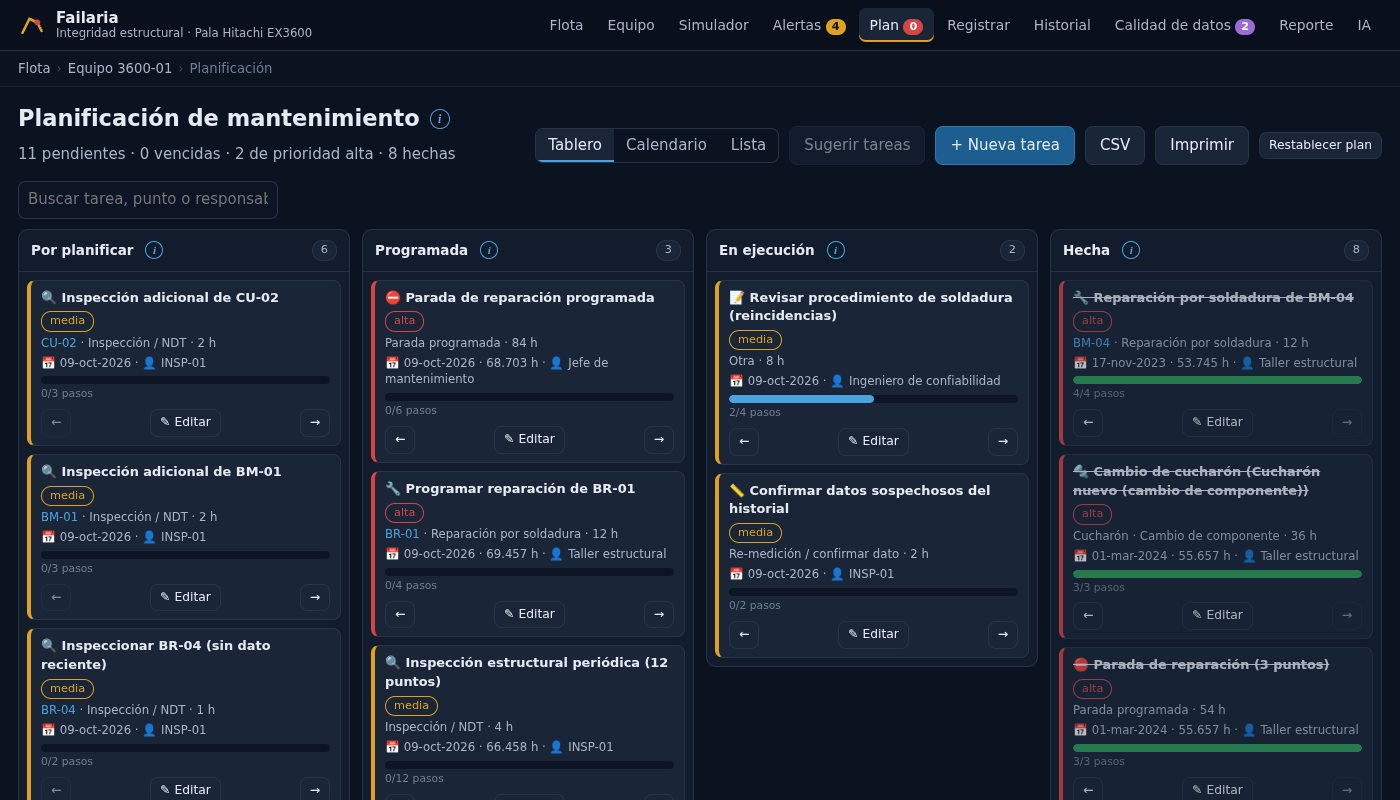
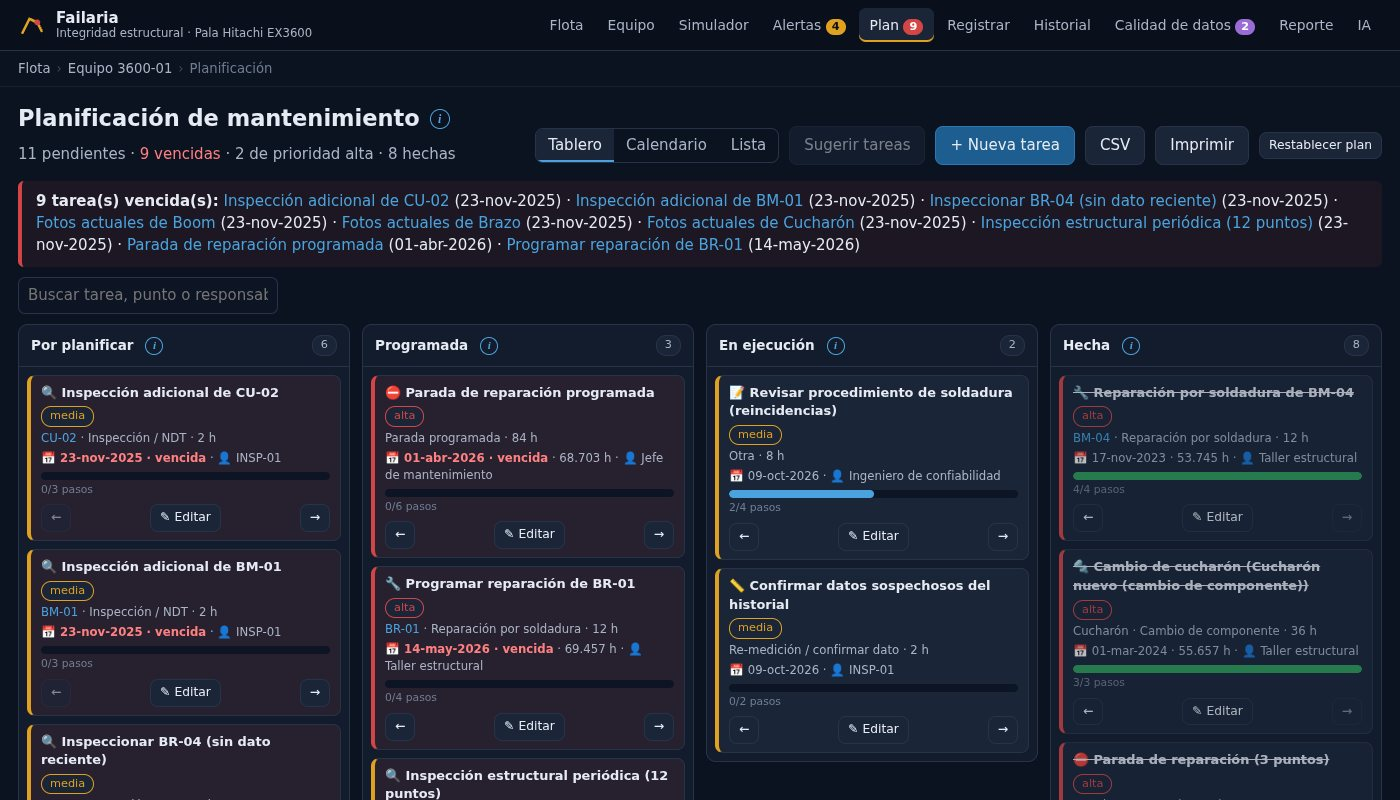
Plan con fechas por horas, diagnóstico IA incluido, etiquetas del Boom, badge del Plan y tabla del simulador
- Plan: las fechas sugeridas salen de las horas proyectadas (igual que la próxima parada de Equipo) y ya no se adelantan a hoy; si pasaron, la tarea queda vencida (parada 01-abr-2026 · 68.703 h)
- Diagnóstico IA incluido (src/diagnostico_ia.js): se muestra en IA y Reporte mientras no haya uno guardado; prueba que vigila que sus cifras coincidan con el análisis
- Esquema del Boom: etiqueta de BM-03 a la izquierda para no tapar la de BM-02 (posición de etiqueta configurable por punto)
- [hidden] siempre oculta: el badge del Plan ya no aparece con 0
- Simulador: gravedad y modo en una columna y encabezados en dos líneas; la columna Falla cabe desde 1280 px y el diseño se apila bajo 1100 px
- Empaquetador: Failaria.html se genera en la raíz del repositorio; el ZIP sigue en dist/
- Docs (README, ENTREGA, MANTENIMIENTO_Y_FALLA, USO_IA, CLAUDE.md) y capturas actualizadas; 95 verificaciones

Changed region(s): [[0.0, 0.1875, 0.9829, 1.0], [0.6143, 0.5312, 0.645, 0.5625], [0.1229, 0.9688, 0.1536, 1.0]]

diff --git a/src/diagnostico_ia.js b/src/diagnostico_ia.js
@@ -1,0 +1,65 @@
+// Diagnóstico IA incluido en la plataforma: respuesta de Claude al prompt que arma la vista IA
+// (src/ia.js, construirPrompt) con el Excel original (datos hasta el 11-oct-2025).
+// Se muestra en las vistas IA y Reporte mientras el usuario no guarde ni borre un diagnóstico, para que
+// la versión entregable no llegue sin diagnóstico (lo guardado vive en el navegador de cada usuario).
+// tests/verify.cjs comprueba que sus cifras clave sigan coincidiendo con el análisis; si cambia el Excel, regenerarlo.
+export const DIAGNOSTICO_DEFECTO = {
+  defecto: true,
+  origen: 'Diagnóstico incluido en la plataforma (Claude, prompt de la vista IA)',
+  modelo: 'claude-opus-5-5',
+  fecha: '2026-10-09T12:00:00.000Z',
+  datosHasta: '2025-10-11',
+  texto: `## 1. Diagnóstico ejecutivo
+El equipo 3600-01 está en **Alerta** por un solo punto: **BR-01**, en las orejas intermedias del cilindro del brazo, mide 410 mm, sobre Caution (300 mm), y crece ≈ 48 mm/1000 h.
+Con crecimiento lineal llegaría a Danger (600 mm) en ≈ 3.754 h, hacia el 14-may-2026. La parada de reparación debe hacerse antes de ≈ 3.000 h (01-abr-2026), un intervalo de inspección antes de ese límite.
+Los otros 11 puntos están en Normal, pero el boom tiene tres grietas creciendo en paralelo y el cucharón muestra las tasas más altas del equipo.
+El historial confirma el riesgo de dejar avanzar una grieta: CU-02 operó 2.219 h en Crítico, hasta 1.040 mm, antes de repararse el 19-jul-2025.
+
+## 2. Prioridades de mantenimiento
+| Punto | Acción | Plazo | Justificación |
+|---|---|---|---|
+| BR-01 | Reparar por soldadura en la parada; inspeccionar con mayor frecuencia hasta entonces | Parada antes de 68.703 h (≈ 01-abr-2026); Danger a 69.457 h (≈ 14-may-2026) | Alerta desde el 22-abr-2025 (2.904 h sobre Caution); 410 mm, 48 mm/1000 h, R² 0,99 |
+| BM-01 | Inspección adicional e incluir en la parada | Caution a ≈ 1.224 h (≈ 20-dic-2025) | 200 mm, 41 mm/1000 h; la grieta más avanzada del boom |
+| CU-02 | Inspeccionar en el próximo intervalo, revisar la reparación e incluir en la parada | Próxima inspección a ≈ 754 h (≈ 23-nov-2025); Caution a ≈ 3.740 h (≈ 13-may-2026) | Reapareció con 70 mm tras la reparación de jul-2025; la tasa de 88 mm/1000 h sale de solo dos mediciones del ciclo actual (0 y 70 mm) |
+| BM-03 · CU-01 · BM-02 | Inspeccionar con END en la parada y reparar si superan Caution | Caution a ≈ 2.422 h (27-feb-2026), ≈ 2.711 h (15-mar-2026) y ≈ 2.814 h (21-mar-2026) | Llegan a Caution antes de la parada; las tres son reincidencias tras reparación |
+| BR-04 | Inspeccionar en la próxima oportunidad | Próxima inspección | No inspeccionado el 11-oct-2025; último dato 0 mm (26-ago-2025) |
+| CU-03 · CU-04 · BR-03 · BM-04 · BR-02 | Seguimiento en la frecuencia normal | Cada ≈ 754 h | Normal; Caution a más de 5.000 h o sin grieta |
+
+## 3. Patrones y causas probables
+**Boom (pluma).** BM-01, BM-02 y BM-03 aparecieron casi a la vez (50–60 mm el 07-mar-2025) y crecen a ritmos parecidos, de 32 a 41 mm/1000 h con R² ≥ 0,98. Un inicio simultáneo en tres zonas apunta a un cambio común de carga u operación a comienzos de 2025, más que a defectos locales. BM-02 y BM-03 reaparecieron ≈ 6.400 h después de la reparación del 01-mar-2024, y BM-04 ya se reparó dos veces.
+- Verificar: cambio de material o frente de carguío, ciclos más severos, técnica de operación y procedimiento de las reparaciones de 2024.
+
+**Brazo (stick).** BR-01 concentra la grieta más larga y crece de forma sostenida desde jun-2024, de 70 a 420 mm. BR-03 reapareció en la soldadura de la oreja interna tras su reparación. Ambos patrones son coherentes con fatiga por las cargas del cilindro transmitidas a las orejas.
+- Verificar: holguras de pasadores y bujes del cilindro, alineación de las orejas, calidad de la soldadura de oreja y presión de trabajo del cilindro.
+
+**Cucharón.** Es la zona más activa: CU-02 y CU-01 tienen las tasas más altas del equipo, 88 y 63 mm/1000 h, y ambas son reincidencias. CU-01 volvió a 230 mm en ≈ 3.600 h después de repararse.
+- Verificar: impacto y abrasión en excavación dura, procedimiento y material de aporte de las reparaciones, y si la grieta se eliminó por completo antes de soldar (END de liberación).
+
+**En todo el equipo.** Hay seis reincidencias en nueve reparaciones. Conviene revisar el procedimiento de reparación por soldadura antes de la próxima parada: WPS, precalentamiento, preparación de junta y END posterior.
+
+## 4. Frecuencia de inspección
+- El intervalo actual de ≈ 754 h (≈ 43 días) es suficiente para los puntos en Normal: con las tasas medidas ninguno avanza más de ≈ 66 mm entre dos inspecciones.
+- **BR-01:** reducir el intervalo a la mitad, ≈ 377 h (≈ 22 días), hasta repararlo. Crece ≈ 36 mm por intervalo actual y le quedan 190 mm hasta Danger.
+- **CU-02 y CU-01:** no superar 754 h y medir con END en cada inspección. Confirmar la tasa de CU-02 con al menos dos mediciones más antes de cambiar el intervalo.
+- **BM-01:** inspección adicional antes de llegar a Caution, hacia el 20-dic-2025.
+- Supuesto: las proyecciones son lineales. En fatiga la tasa suele aumentar con la longitud de la grieta, así que los plazos de BR-01 y de las grietas más largas pueden ser optimistas.
+
+## 5. Calidad de los datos
+- **CU-01, 22-abr-2025: 1.010 mm** entre 0 mm (07-mar-2025) y 100 mm (08-jun-2025). Es probable un dígito extra (101 mm). Está pendiente de decisión; si fuera real, el punto habría estado en Crítico.
+- **CU-02, 22-abr-2025: 0 mm** sin registro de reparación, en pleno periodo en Crítico. Lo más probable es que no se inspeccionara y se anotara 0 en vez de dejar la celda vacía.
+- **BR-01 y CU-03:** bajaron 10 y 20 mm sin reparación. Se tratan como variación de medición, pero el valor de BR-01 (410 mm) puede subestimar la grieta: conviene re-medir.
+- **BR-04:** sin dato en la última inspección. La cobertura total es 97,1 % y los vacíos se mantienen como no inspeccionados, nunca como 0.
+- **Registro fotográfico:** las tres zonas tienen fotos desactualizadas. Sin fotos recientes no se puede verificar la ubicación ni la longitud de las grietas activas. Fotografiar con regla cada punto con grieta en cada inspección.
+- **Vigencia:** el historial termina el 11-oct-2025 y las fechas se estiman con 17,4 h/día. Si el equipo siguió operando sin nuevas inspecciones, la parada recomendada (01-abr-2026) y el límite de BR-01 (14-may-2026) ya pasaron. Hay que confirmar el estado actual antes de usar este plan.
+
+## 6. Preguntas para el equipo de terreno
+1. ¿Se reparó BR-01 o se hizo la parada después del 11-oct-2025? ¿Cuánto mide hoy?
+2. CU-01 el 22-abr-2025: ¿el valor real fue 101 mm o 1.010 mm? CU-02 ese mismo día: ¿se inspeccionó?
+3. ¿Por qué no se inspeccionó BR-04 el 11-oct-2025: acceso, limpieza o tiempo?
+4. ¿Qué cambió en la operación a comienzos de 2025, cuando aparecieron a la vez las grietas del boom: material, frente, tonelaje u operadores?
+5. ¿Qué procedimiento de soldadura y qué END de liberación se usaron en las reparaciones de BM-02, BM-03, BR-03, CU-01 y CU-02?
+6. ¿Por qué CU-02 siguió operando en Crítico entre el 07-mar-2025 y el 19-jul-2025? ¿Hubo restricción de carga o monitoreo especial?
+7. La medición de BR-01 bajó de 420 a 410 mm: ¿se usó el mismo método (PT o MT) y la misma referencia?
+
+Este diagnóstico usa solo los datos calculados por la plataforma. Apoya el análisis; la decisión final corresponde al ingeniero responsable.`,
+};

diff --git a/src/estilos.css b/src/estilos.css
@@ -37,6 +37,7 @@ small, .tenue { color: var(--tenue); }
 .nav a { color: var(--texto2); padding: 7px 11px; border-radius: 7px; font-size: .92rem; white-space: nowrap; }
 .nav a:hover { background: var(--panel2); text-decoration: none; color: var(--texto); }
 .nav a.activo { background: var(--panel2); color: var(--texto); box-shadow: inset 0 -2px 0 var(--alerta); }
+[hidden] { display: none !important; }
 .badge { display: inline-block; min-width: 20px; padding: 0 6px; border-radius: 10px; background: var(--critico); color: #fff; font-size: .75rem; text-align: center; font-weight: 700; }
 .badge.violeta { background: var(--sospechoso); }
 .menu-btn { display: none; margin-left: auto; background: none; border: 1px solid var(--borde); color: var(--texto); font-size: 1.2rem; border-radius: 6px; padding: 4px 10px; }
@@ -143,6 +144,9 @@ input[type=range] { width: 100%; accent-color: var(--alerta); }
 .hot:hover, .hot:focus { transform: translate(-50%, -50%) scale(1.18); text-decoration: none; z-index: 2; }
 .hot.pulso { animation: pulso 1.4s infinite; }
 .hot .etq { position: absolute; top: 100%; margin-top: 3px; background: rgba(12,19,32,.9); padding: 1px 6px; border-radius: 4px; font-size: .72rem; white-space: nowrap; }
+.hot .etq-izq { top: 50%; right: 100%; margin: 0 5px 0 0; transform: translateY(-50%); }
+.hot .etq-der { top: 50%; left: 100%; margin: 0 0 0 5px; transform: translateY(-50%); }
+.hot .etq-arriba { top: auto; bottom: 100%; margin: 0 0 3px; }
 .hot.sosp { outline: 3px dashed var(--sospechoso); outline-offset: 3px; }
 @keyframes pulso { 0%, 100% { box-shadow: 0 0 0 2px rgba(0,0,0,.35), 0 0 0 0 rgba(214,69,69,.7); } 50% { box-shadow: 0 0 0 2px rgba(0,0,0,.35), 0 0 0 12px rgba(214,69,69,0); } }
 
@@ -248,7 +252,10 @@ h1 button.info, h2 button.info { width: 20px; height: 20px; font-size: 12px; }
 .fea-leyenda .barra-color { flex: 1; height: 10px; border-radius: 5px; background: linear-gradient(90deg, #1b2f8a, #1ea7d8, #2ec46a, #f2d23a, #ff7a1a, #d61f1f); }
 .sev-barra { position: relative; height: 8px; background: #0d1524; border-radius: 4px; overflow: hidden; min-width: 54px; }
 .sev-barra i { position: absolute; left: 0; top: 0; bottom: 0; border-radius: 4px; }
-.sim-tabla td, .sim-tabla th { padding: 5px 5px; font-size: .82rem; white-space: nowrap; }
+.sim-tabla td, .sim-tabla th { padding: 5px 4px; font-size: .82rem; white-space: nowrap; }
+.sim-tabla th small { font-weight: 500; text-transform: none; letter-spacing: 0; }
+.sev-fila { display: flex; align-items: center; gap: 5px; margin-bottom: 3px; }
+.sev-fila .sev-barra { flex: 1; }
 .sim-tabla tr.fallado td { background: rgba(214,69,69,.12); }
 .sim-tabla tr.sel td { background: rgba(74,163,223,.12); }
 .sim-eventos { max-height: 170px; overflow: auto; font-size: .82rem; }
@@ -259,7 +266,7 @@ h1 button.info, h2 button.info { width: 20px; height: 20px; font-size: 12px; }
 .modo-propagacion { background: rgba(224,160,32,.25); color: #f6cd6a; } .modo-acelerada { background: rgba(255,122,26,.3); color: #ffb380; }
 .modo-fractura { background: var(--critico); color: #fff; animation: parpadeo 1s infinite; }
 @keyframes parpadeo { 50% { opacity: .55; } }
-@media (max-width: 1000px) { .sim-layout { grid-template-columns: minmax(0, 1fr); } .sim-3d { height: 420px; } }
+@media (max-width: 1100px) { .sim-layout { grid-template-columns: minmax(0, 1fr); } .sim-3d { height: 420px; } }
 
 /* Planificación: tablero, calendario, diálogo */
 .tablero { display: grid; grid-template-columns: repeat(4, minmax(0, 1fr)); gap: 12px; align-items: start; }

diff --git a/src/vistas/simulador.js b/src/vistas/simulador.js
@@ -64,7 +64,7 @@ export function render(root, app, [piezaRuta]) {
       <div class="panel" id="pPieza"></div>
       <div class="espacio"></div>
       <div class="panel" style="padding:10px">
-        <div class="tabla-wrap"><table class="sim-tabla"><thead><tr><th>Punto</th><th>Gravedad ${info('Gravedad = L / a<sub>c</sub>. A 100 % la grieta alcanza la longitud crítica y la pieza falla.')}</th><th>Modo ${info(Object.values(MODOS).map((m) => `<p><b>${m.titulo}:</b> ${m.desc}</p>`).join(''))}</th><th class="n">Danger (h)</th><th class="n">Falla (h)</th></tr></thead><tbody id="tb"></tbody></table></div>
+        <div class="tabla-wrap"><table class="sim-tabla"><thead><tr><th>Punto</th><th>Gravedad<br><small>y modo</small> ${info('<p>Gravedad = L / a<sub>c</sub>. A 100 % la grieta alcanza la longitud crítica y la pieza falla.</p>' + Object.values(MODOS).map((m) => `<p><b>${m.titulo}:</b> ${m.desc}</p>`).join(''))}</th><th class="n">Danger<br><small>h</small></th><th class="n">Falla<br><small>h</small></th></tr></thead><tbody id="tb"></tbody></table></div>
       </div>
       <div class="espacio"></div>
       <div class="rejilla c2">
@@ -144,8 +144,7 @@ export function render(root, app, [piezaRuta]) {
     $('reloj').textContent = `+${fNum(Math.round(sim.horas))} h · ${fFecha(sim.fecha())}`;
     $('tb').innerHTML = lista.map((x) => `<tr class="clic ${x.fallado ? 'fallado' : ''} ${seleccion === x.codigo ? 'sel' : ''}" data-c="${x.codigo}">
       <td><b>${x.codigo}</b><br><small class="num">${fNum(x.L)} mm</small></td>
-      <td><div class="sev-barra" title="${fNum(x.severidad * 100)} %"><i style="width:${Math.round(x.severidad * 100)}%;background:${x.severidad > 0.62 ? '#d61f1f' : x.severidad > 0.37 ? '#f2d23a' : '#2ec46a'}"></i></div><small>${fNum(x.severidad * 100)} %</small></td>
-      <td><span class="modo-chip modo-${x.modo}">${MODOS[x.modo].corto}</span></td>
+      <td><div class="sev-fila"><div class="sev-barra" title="${fNum(x.severidad * 100)} %"><i style="width:${Math.round(x.severidad * 100)}%;background:${x.severidad > 0.62 ? '#d61f1f' : x.severidad > 0.37 ? '#f2d23a' : '#2ec46a'}"></i></div><small>${fNum(x.severidad * 100)} %</small></div><span class="modo-chip modo-${x.modo}">${MODOS[x.modo].corto}</span></td>
       <td class="n">${x.fallado ? '—' : x.horasDanger === 0 ? 'superado' : fNum(x.horasDanger)}</td>
       <td class="n">${x.fallado ? `<b style="color:#ff8080">+${fNum(Math.round(x.horaFalla))} h</b>` : Number.isFinite(x.horasCritico) ? fNum(x.horasCritico) : '∞'}</td></tr>`).join('');
     $('tb').querySelectorAll('tr').forEach((tr) => tr.addEventListener('click', () => seleccionar(tr.dataset.c)));

diff --git a/src/ui/esquema.js b/src/ui/esquema.js
@@ -13,12 +13,13 @@ export function esquemaHTML(zonaId, A, op = {}) {
   const hots = ps.map((a) => {
     const h = a.punto.hotspot || cfg.hotspots[a.codigo];
     if (!h) return '';
+    const lado = h.etq || cfg.hotspots[a.codigo]?.etq;
     const s = op.sim?.puntos[a.codigo];
     const estado = s ? s.estado : a.estadoActual;
     const L = s ? s.L : a.ultimoValido?.Lef;
     const pulso = estado === 'Crítico' || estado === 'Alerta';
     const tit = `${a.codigo} · ${a.punto.descripcion}\n${s ? 'Proyectado' : 'Último'}: ${fMm(L)} · ${estado}${a.niUltima && !s ? ' (N/I en la última inspección)' : ''}`;
-    return `<a class="hot${pulso ? ' pulso' : ''}${a.pendientes.length ? ' sosp' : ''}" href="#/punto/${a.codigo}" style="left:${h.x * 100}%;top:${h.y * 100}%;background:${COLOR[estado]}" title="${esc(tit)}" aria-label="${esc(tit)}">${a.codigo.slice(3)}${op.etiquetas !== false ? `<span class="etq">${a.codigo} · ${L === null || L === undefined ? 'N/I' : L + ' mm'}</span>` : ''}</a>`;
+    return `<a class="hot${pulso ? ' pulso' : ''}${a.pendientes.length ? ' sosp' : ''}" href="#/punto/${a.codigo}" style="left:${h.x * 100}%;top:${h.y * 100}%;background:${COLOR[estado]}" title="${esc(tit)}" aria-label="${esc(tit)}">${a.codigo.slice(3)}${op.etiquetas !== false ? `<span class="etq${lado ? ' etq-' + lado : ''}">${a.codigo} · ${L === null || L === undefined ? 'N/I' : L + ' mm'}</span>` : ''}</a>`;
   }).join('');
   return `<div class="esquema"><img src="${recurso(cfg.esquemasDir + z.esquema)}" alt="Esquema ${esc(z.nombre)} con la ubicación de los puntos de inspección">${hots}</div>`;
 }

diff --git a/src/vistas/ia.js b/src/vistas/ia.js
@@ -12,7 +12,7 @@ export function render(root, app) {
   let foco = '';
   const prompt = () => construirPrompt(A, foco);
   const guardada = leerPref(CLAVE_PREF, '');
-  const ia = app.store.ia;
+  const ia = app.diagnosticoIA();
 
   root.innerHTML = `
   <div class="cabecera"><div><h1>Análisis con IA ${info('<p>La plataforma arma un <b>prompt estructurado</b> con el estado calculado del equipo (JSON compacto: puntos, tendencias, horas hasta umbral, alertas, parada, calidad de datos, KPIs).</p><p><b>Opción A:</b> copiarlo en Copilot o Claude y pegar la respuesta. <b>Opción B:</b> llamar a la API de Claude con su clave; la solicitud va directo del navegador a api.anthropic.com y la clave solo se guarda en este navegador si lo marca.</p><p>El diagnóstico se guarda y aparece en el Reporte. La IA apoya el análisis; las alertas y el plan son reglas deterministas y la decisión es del ingeniero.</p>')}</h1></div></div>
@@ -62,7 +62,7 @@ export function render(root, app) {
     if (!t) { app.toast('Pegue primero la respuesta del asistente.', true); return; }
     guardarDiag({ texto: t, fecha: new Date().toISOString(), origen: 'Asistente externo (copiar/pegar)', datosHasta: A.ultimaInsp.fecha });
   });
-  $('bBorrar')?.addEventListener('click', () => { if (confirm('¿Borrar el diagnóstico IA guardado?')) guardarDiag(null); });
+  $('bBorrar')?.addEventListener('click', () => { if (confirm(ia?.defecto ? '¿Ocultar el diagnóstico incluido en la plataforma?' : '¿Borrar el diagnóstico IA guardado?')) guardarDiag(false); });
 
   let ctrl = null;
   app.alLimpiar(() => ctrl?.abort());

diff --git a/index.html b/index.html
@@ -45,7 +45,7 @@
       if (!window.__appLista) {
         var c = document.getElementById('cargando');
         if (c) c.innerHTML = location.protocol === 'file:'
-          ? '<h2>Este archivo es el código fuente</h2><p>Los navegadores bloquean los módulos JavaScript al abrir <code>index.html</code> como archivo. Opciones:</p><ol><li><b>Versión entregable:</b> abra <code>Failaria.html</code> (un solo archivo, funciona con doble clic). Se genera con <code>node herramientas/empaquetar.mjs</code> en <code>dist/</code>.</li><li>Doble clic en <b>iniciar.bat</b> (Windows) o ejecute <code>python -m http.server 8000</code> en esta carpeta y abra <a href="http://localhost:8000">http://localhost:8000</a>.</li></ol>'
+          ? '<h2>Este archivo es el código fuente</h2><p>Los navegadores bloquean los módulos JavaScript al abrir <code>index.html</code> como archivo. Opciones:</p><ol><li><b>Versión entregable:</b> abra <code>Failaria.html</code> (un solo archivo, funciona con doble clic). Está en la raíz del repositorio y se genera con <code>node herramientas/empaquetar.mjs</code>.</li><li>Doble clic en <b>iniciar.bat</b> (Windows) o ejecute <code>python -m http.server 8000</code> en esta carpeta y abra <a href="http://localhost:8000">http://localhost:8000</a>.</li></ol>'
           : '<h2>No se pudo iniciar la plataforma</h2><p>Revise la consola del navegador.</p>';
       }
     }, 2500);

diff --git a/src/tareas.js b/src/tareas.js
@@ -60,8 +60,9 @@ export function sugerir(A, existentes = [], hoyReal = null) {
   const claves = new Set(existentes.map((t) => t.clave).filter(Boolean));
   const out = [];
   const hoy = hoyReal && hoyReal > A.ultimaInsp.fecha ? hoyReal : A.ultimaInsp.fecha;
-  // Una fecha calculada en el pasado se trae a hoy: no se puede programar hacia atrás.
-  const add = (t) => { if (!claves.has(t.clave)) { if (t.fecha && t.fecha < hoy) t.fecha = hoy; out.push(nuevaTarea({ origen: 'auto', ...t })); claves.add(t.clave); } };
+  // Las fechas salen de las horas proyectadas con la utilización histórica (misma regla que Equipo y Alertas).
+  // Si una fecha calculada ya pasó, se conserva: la tarea queda vencida en vez de moverse a hoy y perder el plazo.
+  const add = (t) => { if (!claves.has(t.clave)) { out.push(nuevaTarea({ origen: 'auto', ...t })); claves.add(t.clave); } };
   const fechaInsp = A.fechaDeHoras(A.horasActuales + A.intervalo);
 
   if (A.parada.requerida) {

diff --git a/src/app.js b/src/app.js
@@ -19,6 +19,7 @@ import * as vSimulador from './vistas/simulador.js';
 import * as vPlan from './vistas/planificacion.js';
 import { kpisTareas, planInicial } from './tareas.js';
 import { activarInfo } from './ui/ayuda.js';
+import { DIAGNOSTICO_DEFECTO } from './diagnostico_ia.js';
 
 window.__appLista = true;
 
@@ -92,6 +93,13 @@ export const app = {
     this.toast('Se usa nuevamente el Excel original.');
   },
   pedirExcel() { document.getElementById('archivoExcel').click(); },
+  // Diagnóstico IA vigente: el guardado por el usuario; si no hay (null), el incluido en la plataforma
+  // mientras se use el Excel original; false = el usuario lo borró.
+  diagnosticoIA() {
+    const ia = this.store?.ia;
+    if (ia) return ia;
+    return ia === false || this.store?.base ? null : DIAGNOSTICO_DEFECTO;
+  },
 };
 window.app = app; // útil para depurar desde la consola
 

diff --git a/src/almacen.js b/src/almacen.js
@@ -6,7 +6,7 @@ const vacio = () => ({
   agregados: { inspecciones: [], mediciones: [] }, // inspecciones registradas en la plataforma
   fotos: [],                                    // fotos agregadas: { medicionId, codigo, fecha, src(dataURL) }
   decisiones: {},                               // idMedicion → { accion: 'aceptar'|'descartar'|'corregir', valor, fecha }
-  ia: null,                                     // último diagnóstico IA { texto, fecha, modelo }
+  ia: null,                                     // último diagnóstico IA { texto, fecha, modelo }; null = usar el incluido, false = borrado
   tareas: [],                                   // planificación de mantenimiento (tablero/calendario)
   planSembrado: false,                          // true cuando ya se generó el plan inicial desde el historial
 });

diff --git a/src/config.js b/src/config.js
@@ -31,10 +31,11 @@ export const CONFIG = {
 
   // Ubicación de cada punto sobre su esquema (fracción del ancho/alto de la imagen),
   // tomada de la punta de la flecha rotulada en assets/esquemas.
+  // etq (opcional): lado de la etiqueta respecto del punto (izq | der | arriba); por defecto debajo.
   hotspots: {
     'BM-01': { x: 0.420, y: 0.672 },
     'BM-02': { x: 0.700, y: 0.212 },
-    'BM-03': { x: 0.602, y: 0.215 },
+    'BM-03': { x: 0.602, y: 0.215, etq: 'izq' }, // etiqueta a la izquierda: BM-02 está a la misma altura
     'BM-04': { x: 0.235, y: 0.588 },
     'BR-01': { x: 0.375, y: 0.322 },
     'BR-02': { x: 0.221, y: 0.246 },

diff --git a/src/vistas/reporte.js b/src/vistas/reporte.js
@@ -16,7 +16,7 @@ export function render(root, app) {
   const insp = A.ultimaInsp; const eq = A.modelo.equipo;
   app.migas([{ t: 'Flota', h: '#/flota' }, { t: `Equipo ${eq.id}`, h: `#/equipo/${eq.id}` }, { t: 'Reporte' }]);
   const foco = cfg.componenteFoco;
-  const ia = app.store.ia;
+  const ia = app.diagnosticoIA();
   const enAlerta = Object.values(A.puntos).filter((a) => a.estadoActual === 'Alerta' || a.estadoActual === 'Crítico');
 
   root.innerHTML = `

diff --git a/README.md b/README.md
@@ -28,10 +28,10 @@ node herramientas/empaquetar.mjs
 
 | Archivo generado | Contenido |
 |---|---|
-| `dist/Failaria.html` | La plataforma completa en un archivo (≈ 6 MB) |
-| `dist/Failaria_entrega.zip` | `Failaria.html` + `LEEME.txt`, para plataformas o correos que no aceptan `.html` |
+| `Failaria.html` | La plataforma completa en un archivo (≈ 6 MB), en la raíz del repositorio |
+| `dist/Failaria_entrega.zip` | `Failaria.html` + `LEEME.txt`, para plataformas o correos que no aceptan `.html`; no se versiona |
 
-Requiere Node 18 o superior. La primera vez necesita internet, porque `npx` descarga esbuild para agrupar el código. La plataforma en sí no usa npm. Detalle, verificación y opciones de publicación en [docs/ENTREGA.md](docs/ENTREGA.md).
+Requiere Node 18 o superior. La primera vez necesita internet, porque `npx` descarga esbuild para agrupar el código. La plataforma en sí no usa npm. Hay que regenerar el archivo después de cada cambio. Para entregar en Teams o en el aula virtual se adjunta `Failaria.html` o el ZIP, no el link del repositorio. Detalle, verificación y opciones de publicación en [docs/ENTREGA.md](docs/ENTREGA.md).
 
 ## Cómo está pensada la interfaz
 
@@ -52,7 +52,7 @@ Cada vista muestra solo lo necesario para decidir. Las explicaciones (reglas, su
 | **Historial** | Consulta y exportación | Filtros, Excel/CSV/JSON |
 | **Calidad de datos** | ¿Qué datos de campo no son confiables? | Marcados, no borrados; el usuario decide |
 | **Reporte** | PDF en el orden del formato | Resumen, plan, zonas, alertas, diagnóstico IA |
-| **IA** | Diagnóstico asistido | Prompt estructurado o llamada a la API de Claude |
+| **IA** | Diagnóstico asistido | Diagnóstico incluido, prompt estructurado o llamada a la API de Claude |
 
 ## Galería
 
@@ -78,7 +78,7 @@ Cada vista muestra solo lo necesario para decidir. Las explicaciones (reglas, su
 
 ## Planificación de mantenimiento
 
-La vista **Plan** arranca con un plan inicial construido desde el historial (reparaciones y cambios registrados como tareas hechas, recomendaciones vigentes programadas con responsable, revisión de soldadura y datos sospechosos en ejecución) y lleva a la práctica lo que la plataforma recomienda: «Sugerir tareas» crea tarjetas desde la próxima parada, el plan priorizado y las alertas (reparación con pasos de soldadura y NDT, inspección adicional, re-medición, fotos, inspección periódica). Tablero con arrastrar y soltar o flechas, calendario mensual, lista imprimible, responsable, horómetro previsto, pasos de verificación y exportación CSV. Las tareas vencidas se marcan y aparecen en el reporte.
+La vista **Plan** arranca con un plan inicial construido desde el historial (reparaciones y cambios registrados como tareas hechas, recomendaciones vigentes programadas con responsable, revisión de soldadura y datos sospechosos en ejecución) y lleva a la práctica lo que la plataforma recomienda: «Sugerir tareas» crea tarjetas desde la próxima parada, el plan priorizado y las alertas (reparación con pasos de soldadura y NDT, inspección adicional, re-medición, fotos, inspección periódica). Tablero con arrastrar y soltar o flechas, calendario mensual, lista imprimible, responsable, horómetro previsto, pasos de verificación y exportación CSV. Las fechas salen de las horas proyectadas, igual que la próxima parada de la vista Equipo; si una fecha ya pasó, la tarea queda vencida en vez de moverse a hoy. Las tareas vencidas se marcan y aparecen en el reporte.
 
 Uso detallado: [docs/SIMULADOR.md](docs/SIMULADOR.md). Fundamentos (supervisión de grietas, Paris, FAD, límites): [docs/MANTENIMIENTO_Y_FALLA.md](docs/MANTENIMIENTO_Y_FALLA.md).
 
@@ -110,23 +110,24 @@ src/reglas.js         estado, ciclos, tasas, proyección, alertas, plan, KPIs   
 src/falla.js          ley de Paris, longitud crítica, modos, FAD, simulación, causa de falla (sin DOM)
 src/tareas.js         planificación: sugerencias, tablero, agenda, CSV                   (sin DOM)
 src/almacen.js        localStorage, respaldo JSON, fotos
-src/ia.js             prompt estructurado + API de Claude
+src/ia.js             prompt estructurado + API de Claude  ·  src/diagnostico_ia.js  diagnóstico IA incluido
 src/vistas/*.js       flota, equipo, simulador, planificacion, zona, punto, registrar, historial, alertas, calidad, reporte, ia
 src/ui/ayuda.js       icono ⓘ con información adicional
 src/ui/pala3d.js      pala 3D paramétrica (vigas lofteadas)  ·  src/ui/simulador3d.js  mapa FEA + tirar con el mouse
 src/ui/grafico.js     Chart.js  ·  src/ui/esquema.js  esquemas con hotspots
 src/ui/lupa.js        lupa de grieta  ·  src/ui/formato.js  formatos y recurso(): rutas de imágenes y Excel
 vendor/               SheetJS, Chart.js + annotation, Three.js, OrbitControls (versiones fijas)
-herramientas/         empaquetar.mjs: genera la versión entregable en un solo archivo (dist/, ignorada por git)
+herramientas/         empaquetar.mjs: genera la versión entregable Failaria.html (raíz) y el ZIP (dist/, ignorada por git)
+Failaria.html         versión entregable generada; no editar a mano
 docs/                 README (índice), ENTREGA, MANTENIMIENTO_Y_FALLA, SIMULADOR, USO_IA, historial/, referencia/, capturas/
-tests/verify.cjs      93 verificaciones de datos.js, reglas.js, falla.js y tareas.js
+tests/verify.cjs      95 verificaciones de datos.js, reglas.js, falla.js, tareas.js y del diagnóstico incluido
 ```
 
 ## Verificación
 
 ```bash
-node tests/verify.cjs              # lógica: 93 verificaciones
-node herramientas/empaquetar.mjs   # versión entregable en dist/
+node tests/verify.cjs              # lógica: 95 verificaciones
+node herramientas/empaquetar.mjs   # versión entregable: Failaria.html y dist/Failaria_entrega.zip
 ```
 
 La versión entregable se probó abriéndola como archivo local en Chromium, sin carpetas al lado: todas las vistas cargan con datos, imágenes y 3D, sin errores de consola.
